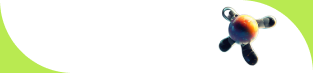
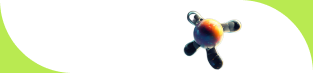
first commit

Changed region(s): [[0.5751, 0.0822, 0.8914, 0.9589]]

diff --git a/index.html b/index.html
@@ -54,7 +54,8 @@
         chat-subtitle="online"
         allow-fullscreen="small"
         chat-collapse-icon="./assets/down_arrow.svg"
-        chat-icon="./assets/comment_icon.svg"
+        chat-icon="./assets/profile-image.png"
+        chat-icon-size="54px"
       >
       </df-messenger-chat-bubble>
     </df-messenger>
@@ -124,12 +125,12 @@
 
       df-messenger-chat-bubble {
         --df-messenger-chat-window-offset: 8px;
-        --df-messenger-chat-bubble-icon-size: 32px;
+        --df-messenger-chat-bubble-icon-size: 64px;
         --df-messenger-chat-bubble-icon-color: white;
         --df-messenger-chat-bubble-background: #9ec745;
         --df-messenger-message-user-font-color: white;
         --df-messenger-message-bot-font-color: rgb(51, 51, 51);
-        --df-messenger-chat-collapse-icon-size: 16px;
+        --df-messenger-chat-collapse-icon-size: 18px;
         --df-messenger-focus-color: black;
       }
 
